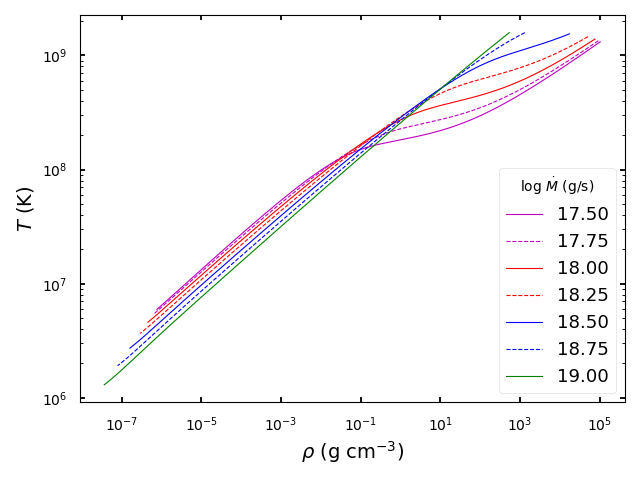
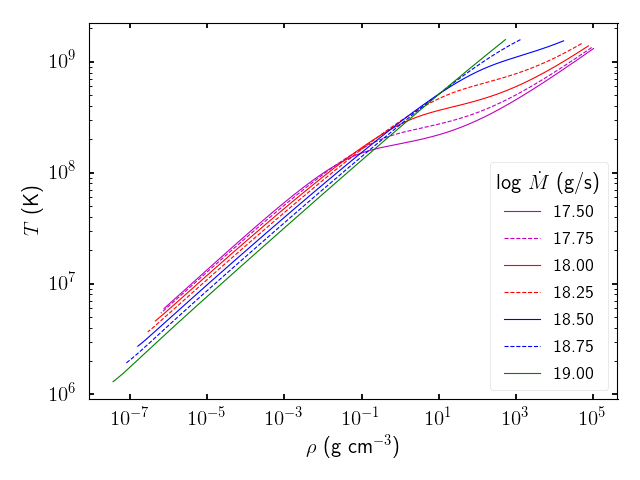
pretty plots

diff --git a/Plots.py b/Plots.py
@@ -2,8 +2,15 @@
 
 import os
 import numpy as np
+import matplotlib as mpl
 import matplotlib.pyplot as plt
+from matplotlib import rc
 from numpy import log10, pi, array, linspace, logspace, floor
+
+rc('text', usetex = True)
+# rc('font', family = 'serif')
+mpl.rcParams['text.latex.preamble'] = [r"\usepackage{amsmath}"]
+mpl.rcParams.update({'font.size': 15})
 
 from wind_GR import MakeWind
 from IO import *
@@ -42,40 +49,30 @@ def beautify(fig,ax):
 
 # Radius-Luminosity (fig. 2)
 fig1, ax1 = plt.subplots(1, 1)
-# ax1.set_xlabel(r'log $r$ (cm)', fontsize=14)
-# ax1.set_ylabel(r'log $L^*/L_{Edd}$', fontsize=14)
-ax1.set_xlabel(r'$r$ (cm)', fontsize=14)
-# ax1.set_ylabel(r'$L^*/L_{Edd}$', fontsize=14)
-ax1.set_ylabel(r'$L/L_{Edd}$', fontsize=14)     # Not writing L* for clarity (but keep in mind this is still lum at inf)
+ax1.set_xlabel(r'$r$ (cm)')
+ax1.set_ylabel(r'$L_{\infty}/L_{Edd}$')    
 
 # Radius-Temperature (fig. 4)
 fig2, ax2 = plt.subplots(1, 1)
-# ax2.set_xlabel(r'log $r$ (cm)', fontsize=14)
-# ax2.set_ylabel(r'log $T$ (K)', fontsize=14)
-ax2.set_xlabel(r'$r$ (cm)', fontsize=14)
-ax2.set_ylabel(r'$T$ (K)', fontsize=14)
+ax2.set_xlabel(r'$r$ (cm)')
+ax2.set_ylabel(r'$T$ (K)')
 
 # Density-Temperature (fig. 5)
 fig3, ax3 = plt.subplots(1, 1)
-# ax3.set_xlabel(r'log $\rho$ (g cm$^{-3}$)', fontsize=14)
-# ax3.set_ylabel(r'log $T$ (K)', fontsize=14)
-ax3.set_xlabel(r'$\rho$ (g cm$^{-3}$)', fontsize=14)
-ax3.set_ylabel(r'$T$ (K)', fontsize=14)
+ax3.set_xlabel(r'$\rho$ (g cm$^{-3}$)')
+ax3.set_ylabel(r'$T$ (K)')
 
 # Radius-Velocity (fig. 6)
 fig4, ax4 = plt.subplots(1, 1)
-# ax4.set_xlabel(r'log $r$ (cm)', fontsize=14)
-# ax4.set_ylabel(r'log $v$ (cm s$^{-1}$)', fontsize=14)
-ax4.set_xlabel(r'$r$ (cm)', fontsize=14)
-ax4.set_ylabel(r'$v$ (cm s$^{-1}$)', fontsize=14)
+ax4.set_xlabel(r'$r$ (cm)')
+ax4.set_ylabel(r'$v$ (cm s$^{-1}$)')
 
 # Radius-Pressure
 fig5, ax5 = plt.subplots(1, 1)
-# ax5.set_xlabel(r'log $r$ (cm)', fontsize=14)
-# ax5.set_ylabel(r'log $P$ (g cm$^{-1}$ s$^{-2}$)', fontsize=14)
-ax5.set_xlabel(r'$r$ (cm)', fontsize=14)
-ax5.set_ylabel(r'$P$ (g cm$^{-1}$ s$^{-2}$)', fontsize=14)
+ax5.set_xlabel(r'$r$ (cm)')
+ax5.set_ylabel(r'$P$ (g cm$^{-1}$ s$^{-2}$)')
 
+Lb = []  # base luminosity
 colors = ['r', 'b', 'g', 'k', 'm']
 
 i = 0
@@ -88,6 +85,8 @@ for logMdot, root in zip(logMDOTS, roots):
     R, T, Rho, u, Phi, Lstar, L, LEdd_loc, E, P, cs, tau, rs, Edot, Ts = MakeWind(
         root, logMdot, mode='wind')
 
+    Lb.append(L[0])
+
     if save:
         data = [R, T, Rho, u, Phi, Lstar, L, E, P, cs, tau, rs]
         write_to_file(logMdot, data)
@@ -96,17 +95,6 @@ for logMdot, root in zip(logMDOTS, roots):
 
         c = colors[int(np.floor(i/2)-1)]
         ls = '-' if i%2==0 else '--'
-
-        # ax1.plot(log10(R), log10(Lstar/LEdd),
-        #          color=c lw=0.8, label=('%.2f' % (log10(Mdot))))
-        # ax2.plot(log10(R), log10(T), color=c lw=0.8, label=(
-        #     '%.2f' % (log10(Mdot))))
-        # ax3.plot(log10(Rho), log10(T),
-        #          color=c lw=0.8, label=('%.2f' % (log10(Mdot))))
-        # ax4.plot(log10(R), log10(u), color=c lw=0.8, label=(
-        #     '%.2f' % (log10(Mdot))))
-        # ax5.plot(log10(R), log10(P), color=c lw=0.8, label=(
-        #     '%.2f' % (log10(Mdot))))
 
         ax1.semilogx(R, Lstar/LEdd,
                 color=c, lw=0.8,  label=('%.2f' % (log10(Mdot))), linestyle = ls)
@@ -124,23 +112,23 @@ for logMdot, root in zip(logMDOTS, roots):
 
         i += 1
 
-
 ax1.legend(title=r'log $\dot{M}$ (g/s)', loc=1)
-# ax1.set_xlim([5.8, 9.2])
-# ax1.set_ylim([-0.1, 0.9])
 ax2.legend(title=r'log $\dot{M}$ (g/s)', loc=1)
-# ax2.set_xlim([5.8, 9.2])
-# ax2.set_ylim([5.6, 10])
 ax3.legend(title=r'log $\dot{M}$ (g/s)', loc=4)
-# ax3.set_xlim([-9, 8])
-# ax3.set_ylim([5.6, 10])
 ax4.legend(title=r'log $\dot{M}$ (g/s)', loc=4)
-# ax4.set_xlim([5.8, 9.2])
-# ax4.set_ylim([5, 9])
 ax5.legend(title=r'log $\dot{M}$ (g/s)', loc=1)
-# ax5.set_xlim([5.8, 9.2])
+
+# Additionnal plots
+
+Fb = array(Lb)/(4*pi*(RNS*1e5)**2)  # non-redshifted base flux
+fig6, ax6 = plt.subplots(1, 1)
+ax6.set_xlabel(r'$F_b$ (10$^{25}$ erg s$^{-1}$ cm$^{-2}$)')
+ax6.set_ylabel(r'log $\dot{M}$ (g/s)')
+ax6.plot(Fb/1e25,logMDOTS,'k.-',lw=0.8)
+beautify(fig6,ax6)
+
 
 if save: 
-    save_plots([fig1,fig2,fig3,fig4,fig5],['Luminosity','Temperature1','Temperature2','Velocity','Pressure'],img)
+    save_plots([fig1,fig2,fig3,fig4,fig5,fig6],['Luminosity','Temperature1','Temperature2','Velocity','Pressure','Flux_Mdot'],img)
 else:
     plt.show()

diff --git a/IO.py b/IO.py
@@ -1,7 +1,7 @@
 ''' Input and Output '''
 
 import os
-from numpy import log10,array
+from numpy import log10,array,pi
 
 def load_params():
     with open('params.txt','r') as f:
@@ -85,11 +85,12 @@ def write_to_file(logMdot,data):
     path = 'results/' + dirname + '/data/'
     filename = path + str(logMdot) + '.txt'
 
+    R, T, Rho, u, Phi, Lstar, L, E, P, cs, tau, rs = data
+
     with open(filename,'w') as f:
         f.write('{:<13s} \t {:<11s} \t {:<11s} \t {:<11s} \t {:<11s} \t {:<11s} \t {:<11s} \t {:<11s} \t {:<11s} \t {:<11s} \t {:<11s}\n'.format(
             'r (km)','u (km/s)','cs (km/s)','rho (g/cm3)','T (K)','P (dyne/cm2)','phi','L (erg/s)','L* (erg/s)','E (erg)','tau'))
 
-        R, T, Rho, u, Phi, Lstar, L, E, P, cs, tau, rs = data
         for i in range(len(R)):
             f.write('%0.8e \t %0.6e \t %0.6e \t %0.6e \t %0.6e \t %0.6e \t %0.6e \t %0.6e \t %0.6e \t %0.6e \t %0.6e'%
                 (R[i]/1e5 , u[i]/1e5 , cs[i]/1e5 , Rho[i] , T[i] , P[i] , Phi[i] , L[i] , Lstar[i] , E[i], tau[i]))
@@ -98,6 +99,22 @@ def write_to_file(logMdot,data):
                 f.write('\n')
             else:
                 f.write('\t sonic point\n')
+
+
+    # Flux Mdot file 
+    Lb = L[0]
+    Fb = Lb/(4*pi*R[0]**2)
+
+    filename = path + 'Flux_Mdot.txt'
+    if not os.path.exists(filename):
+        f = open(filename,'w+')
+        f.write('{:<7s} \t {:<11s} \t {:<11s}\n'.format(
+            'logMdot' , 'Fb' , 'Lb'))
+    else:
+        f = open(filename,'a')
+
+    f.write('{:<7.2f} \t {:<10e} \t {:<10e}\n'.format(
+            logMdot,Fb,Lb))
                 
 
 
